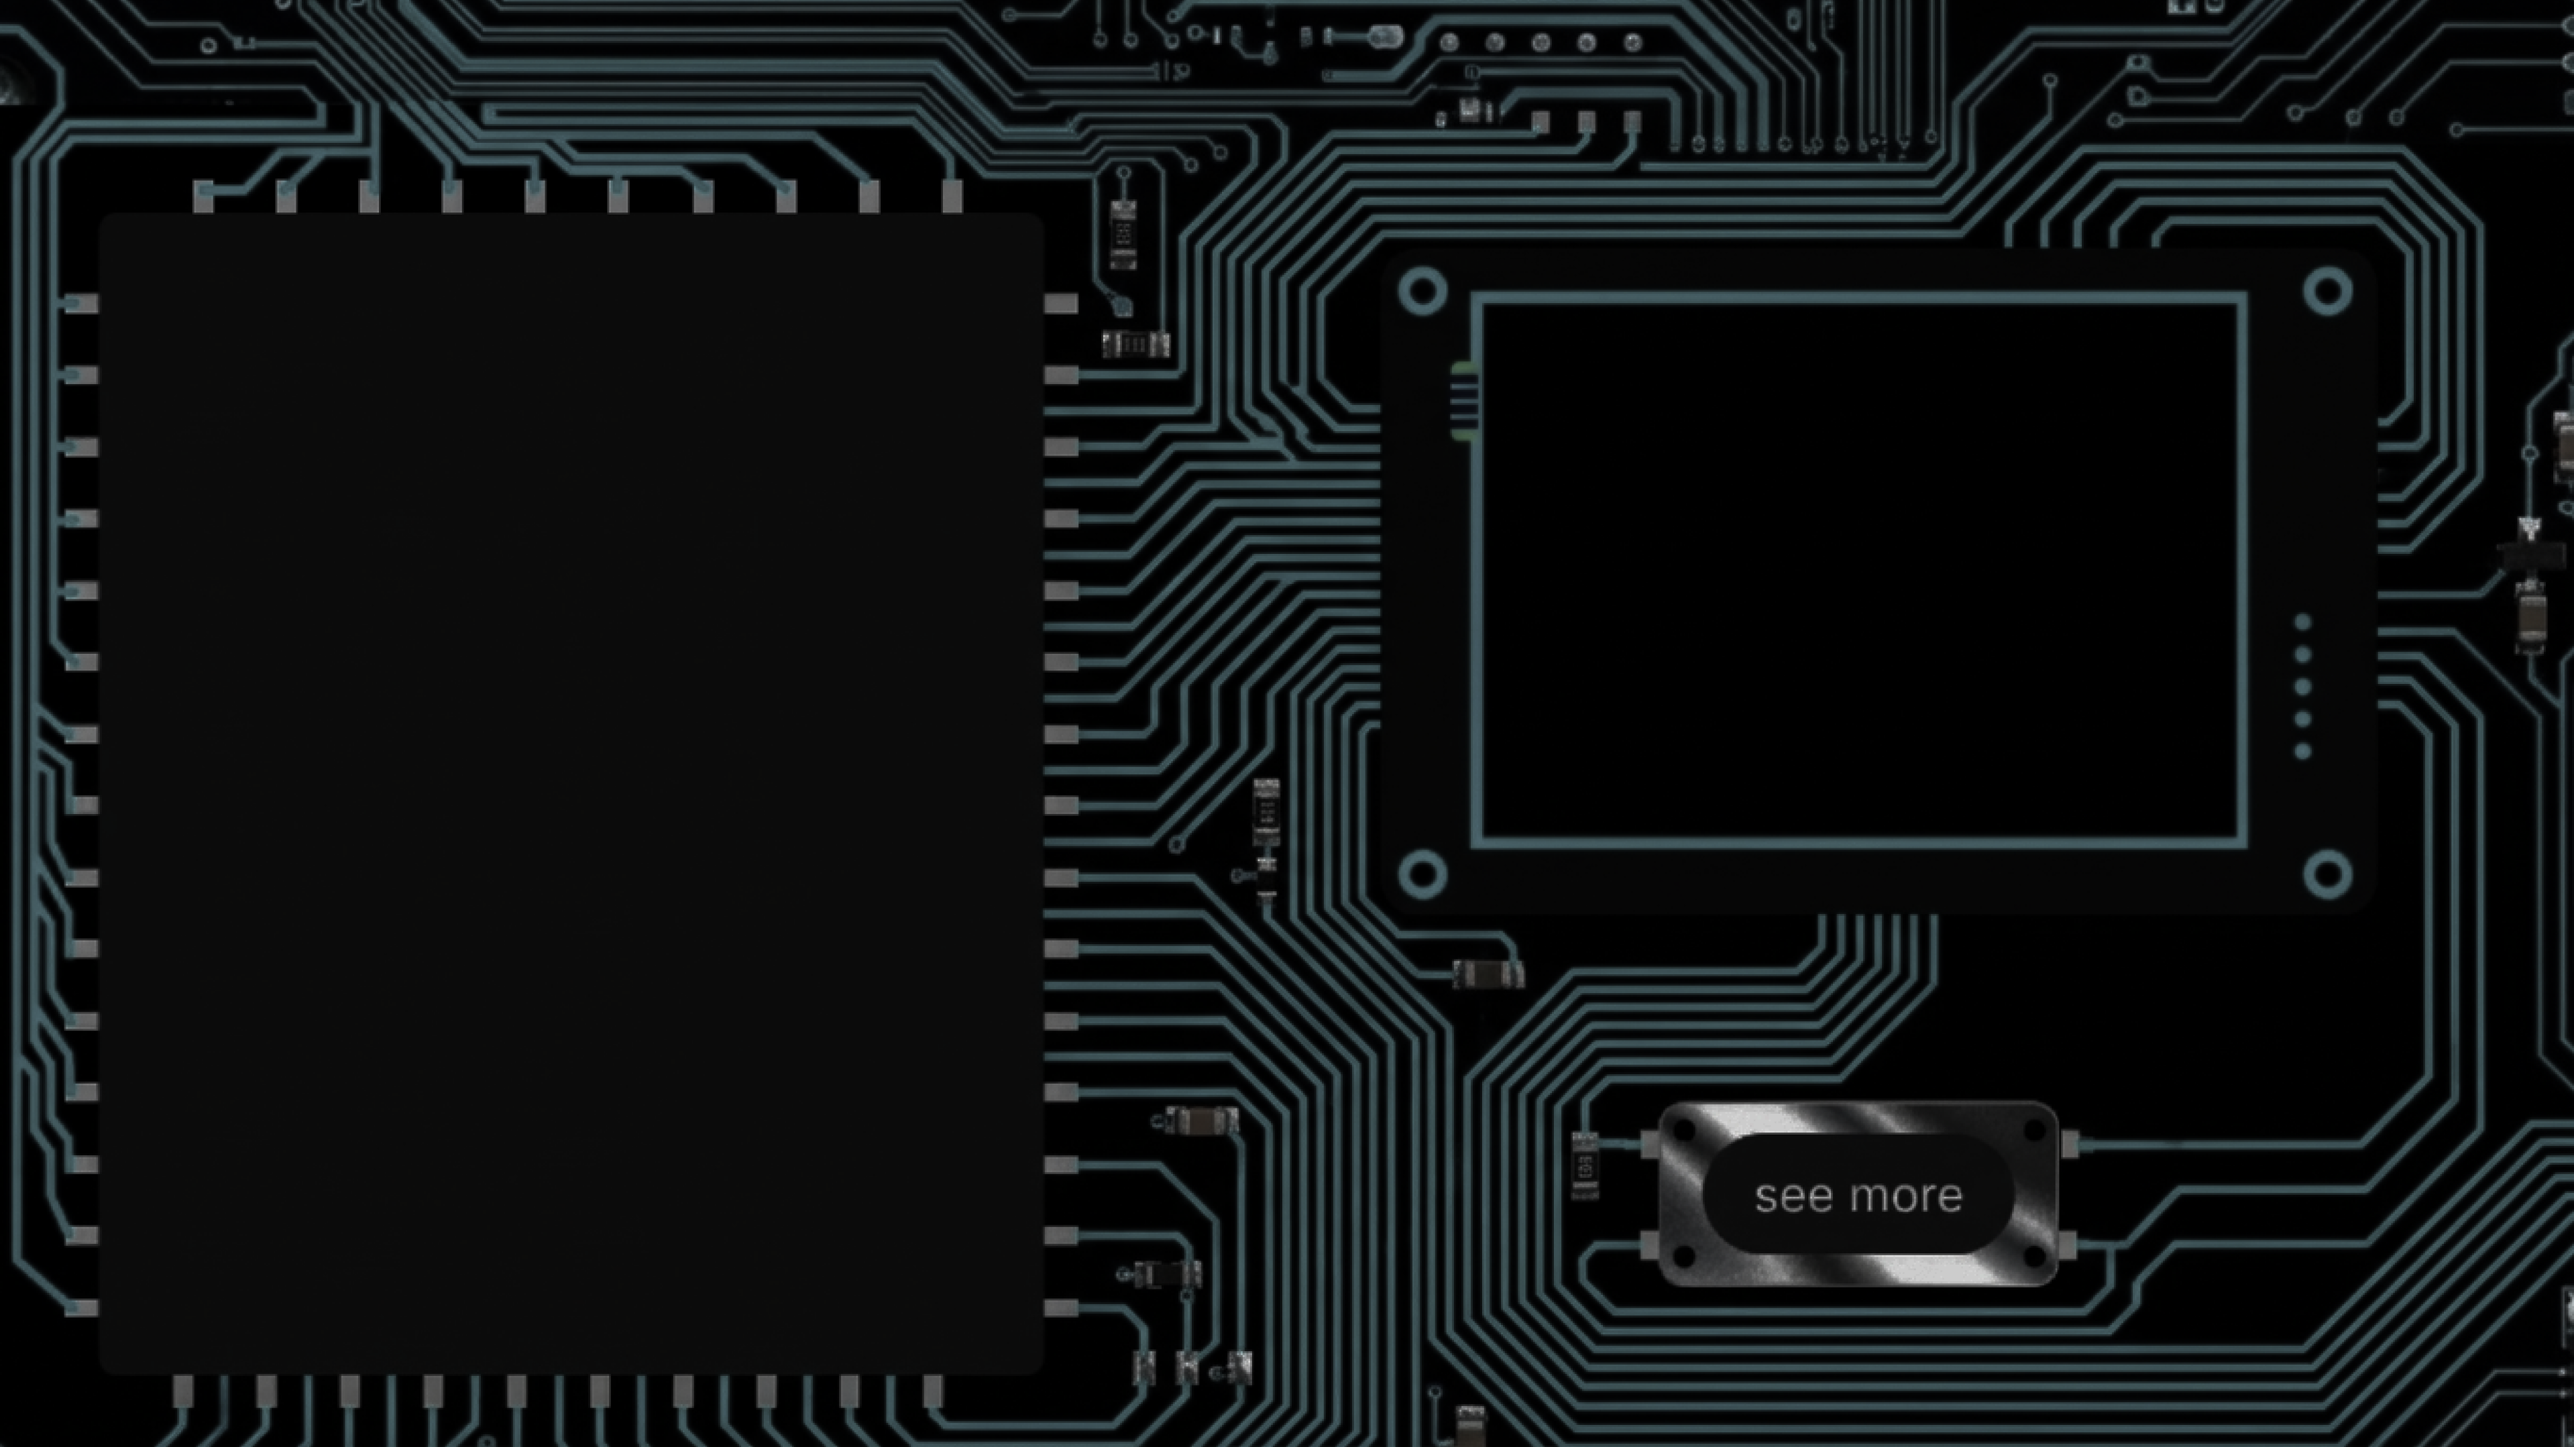
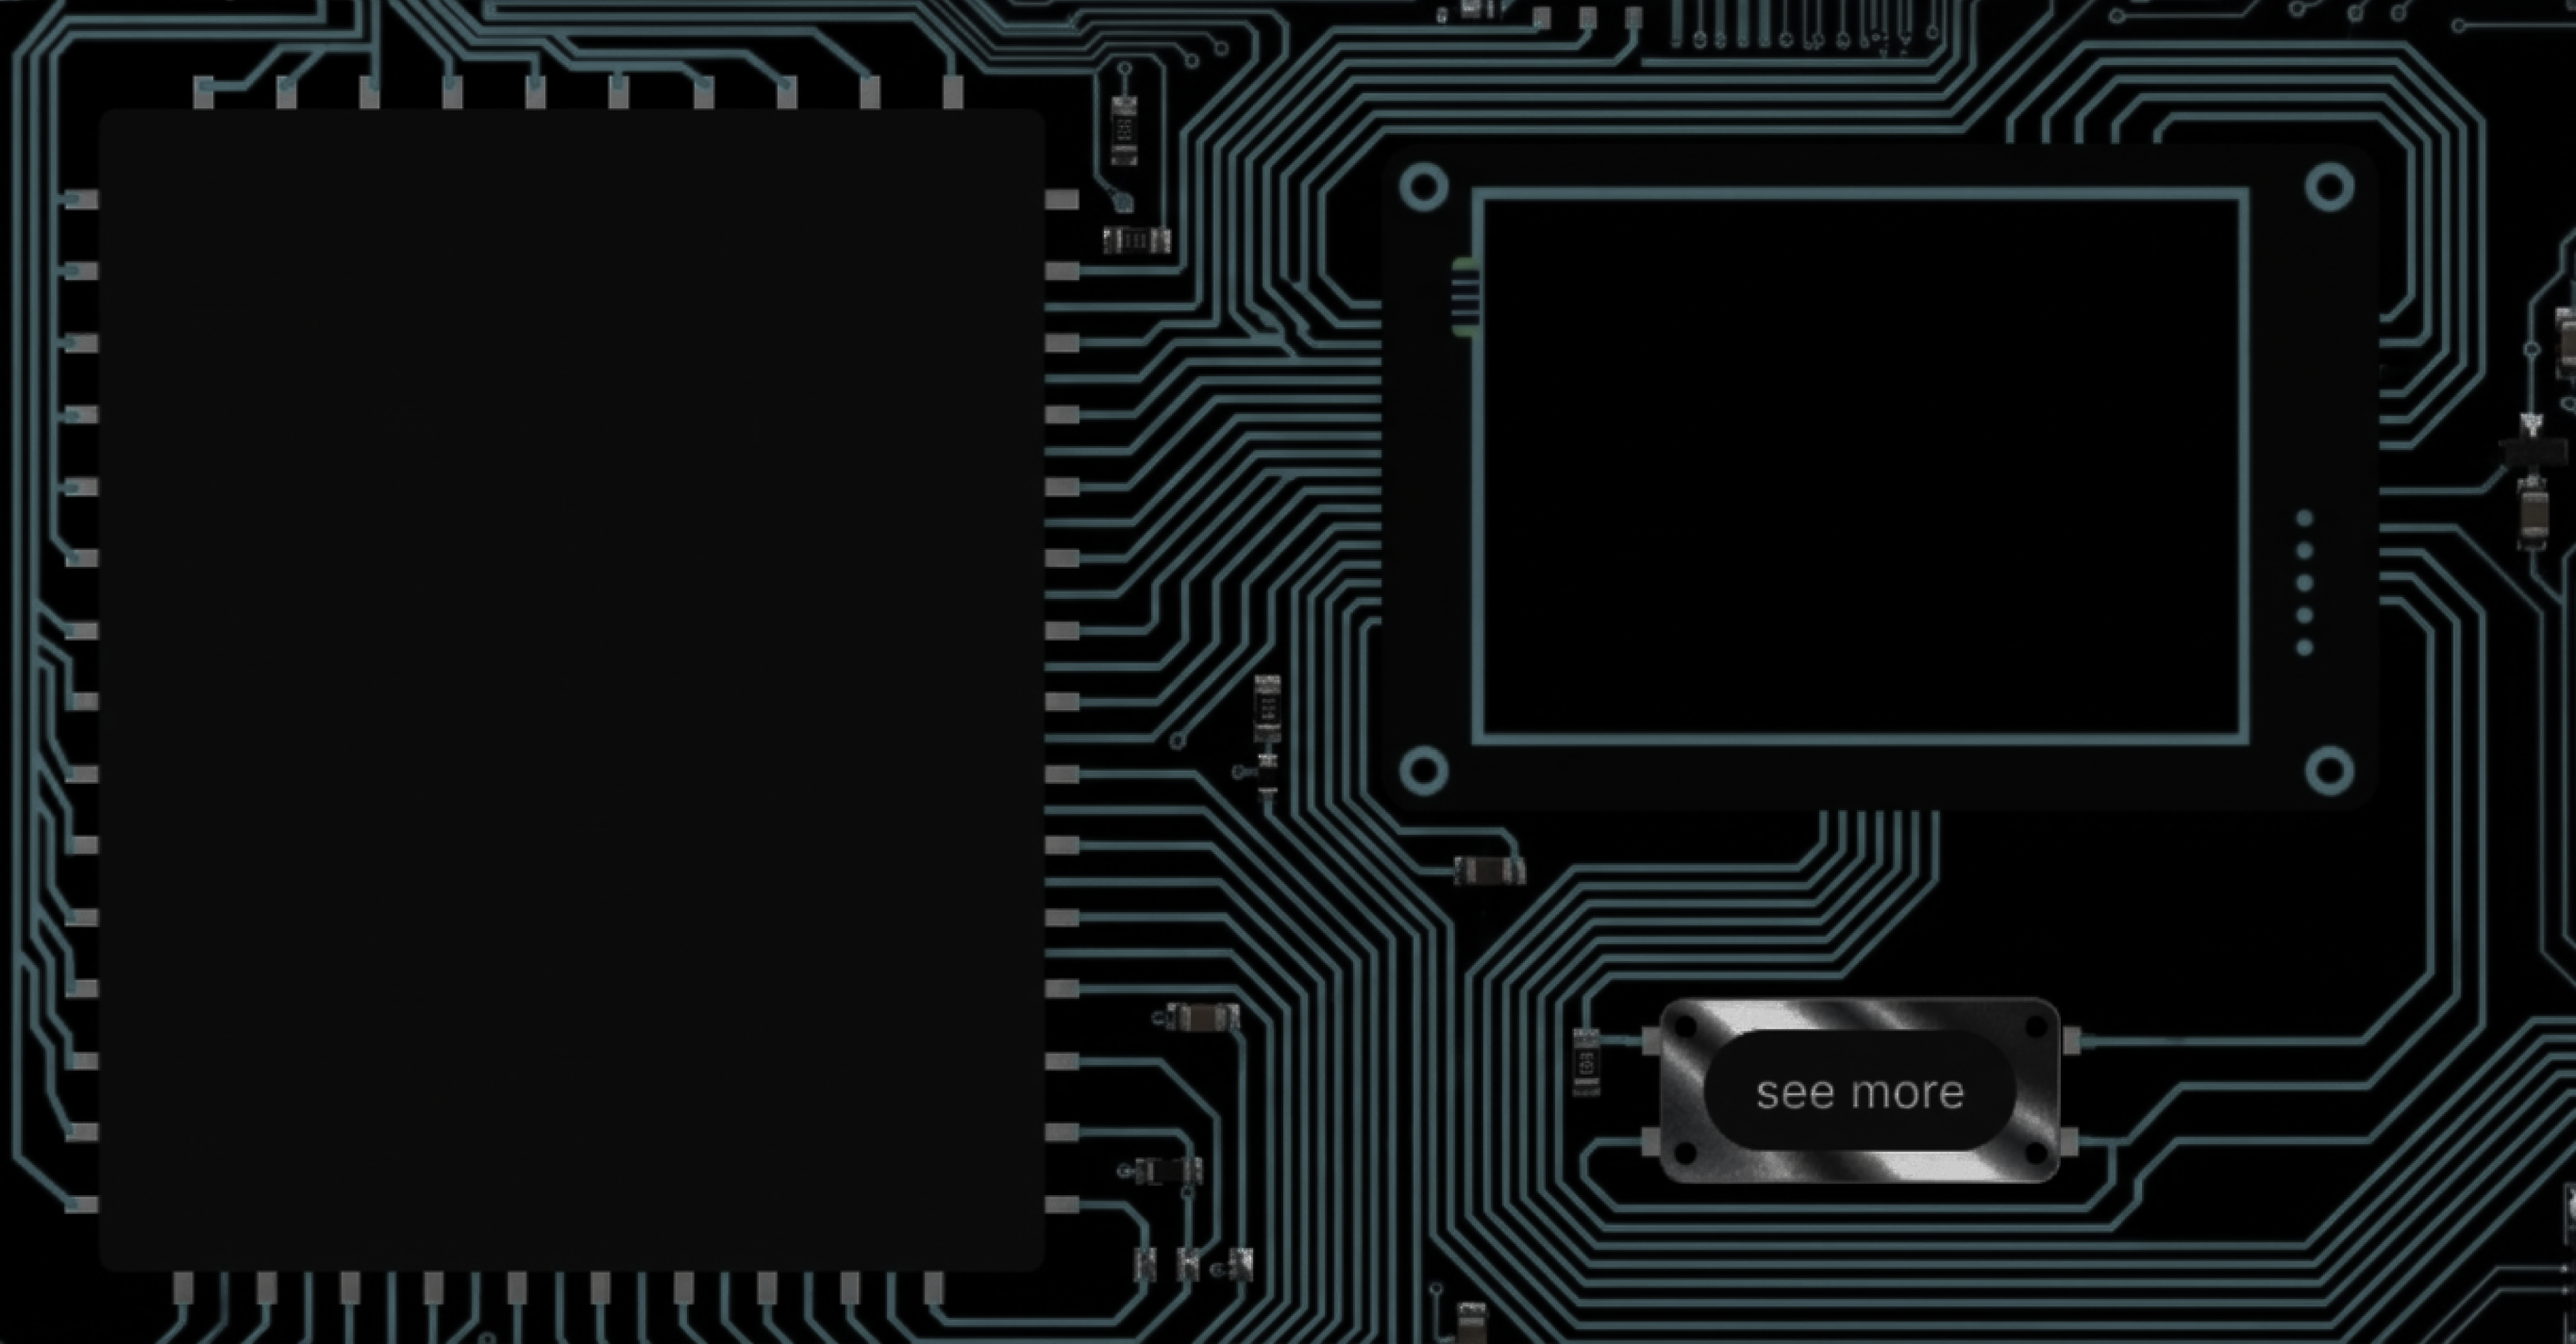
RESOLVI LO DEL FONDO

diff --git a/src/PcbPortfolio.jsx b/src/PcbPortfolio.jsx
@@ -25,12 +25,13 @@ const DEFAULT_SECTIONS = [
     label: "Teo Gonzalez",
     off: pcbOff1,
     on: pcbOn1,
+
   },
   {
     id: "proyectos",
     label: "Proyectos",
-    off: "/assets/pcb-off2.png",
-    on: "/assets/pcb-on2.png",
+    off: pcbOff2,
+    on: pcbOn2,
   },
 ];
 
